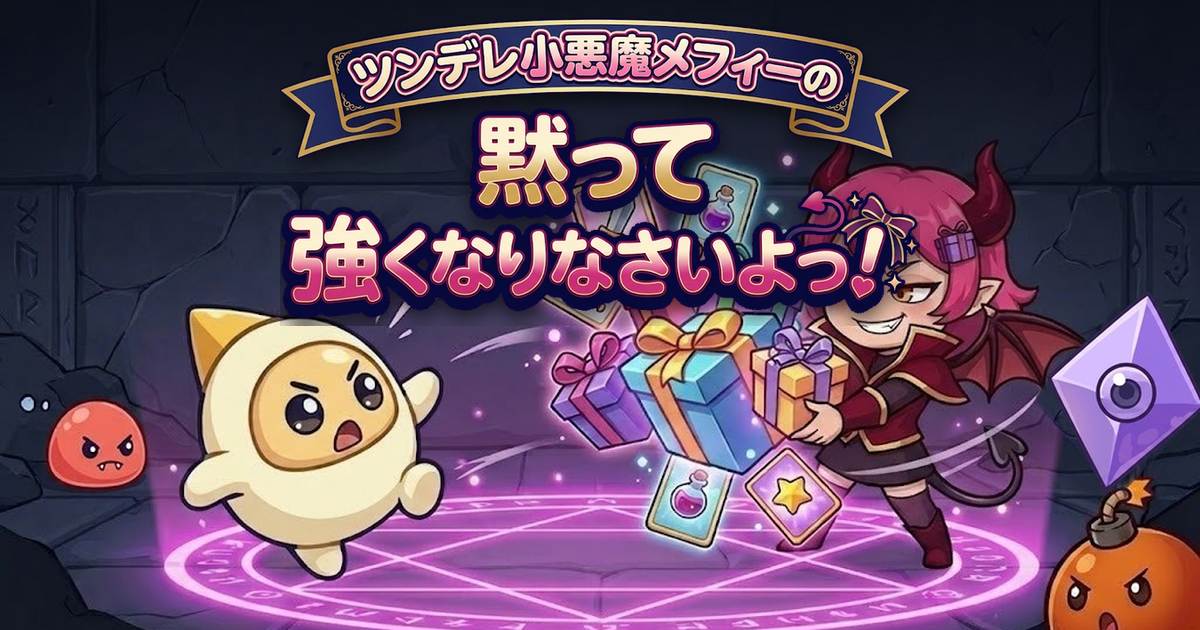
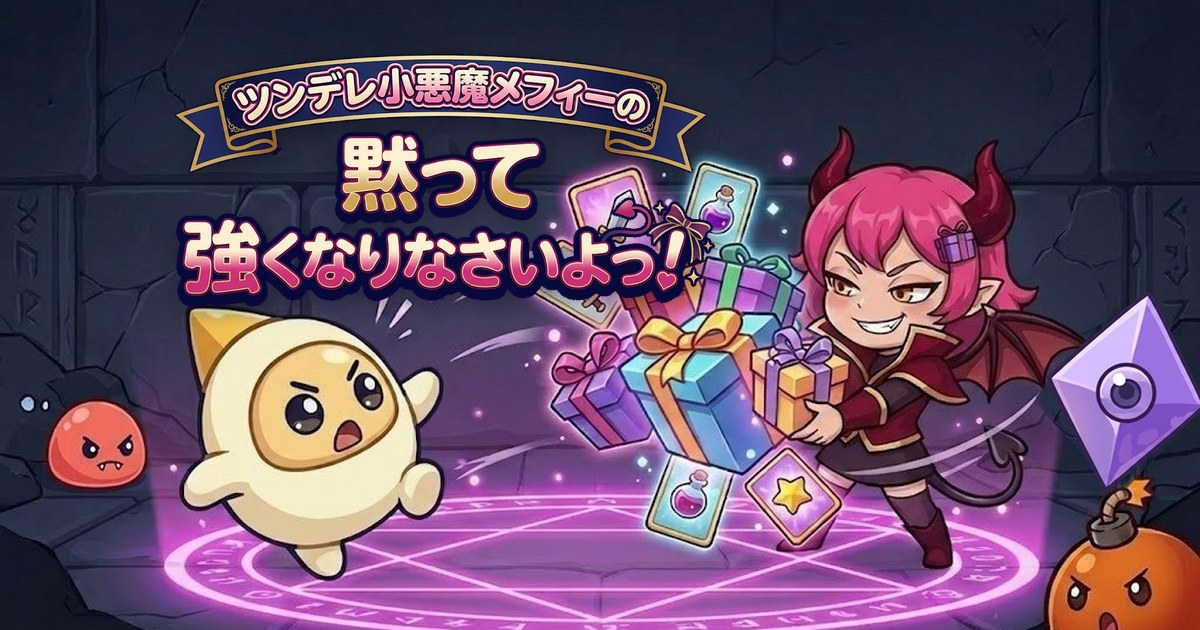
リンクのカードの絵を直す

Changed region(s): [[0.1233, 0.0302, 0.8325, 0.5429]]

diff --git a/index.html b/index.html
@@ -10,7 +10,7 @@
 <meta property="og:title" content="ツンデレ小悪魔メフィーの黙って強くなりなさいよっ！">
 <meta property="og:description" content="小悪魔メフィーが、あんたの癖を読んで強化を押し付けてくる弾よけアクション。攻撃は自動、よけるだけ。スマホでもパソコンでも、ブラウザですぐ遊べる。">
 <meta property="og:url" content="https://kome0824.github.io/damatsuyo/">
-<meta property="og:image" content="https://kome0824.github.io/damatsuyo/ogp.png">
+<meta property="og:image" content="https://kome0824.github.io/damatsuyo/ogp.png?v=2">
 <meta property="og:image:width" content="1200">
 <meta property="og:image:height" content="630">
 <meta property="og:locale" content="ja_JP">
